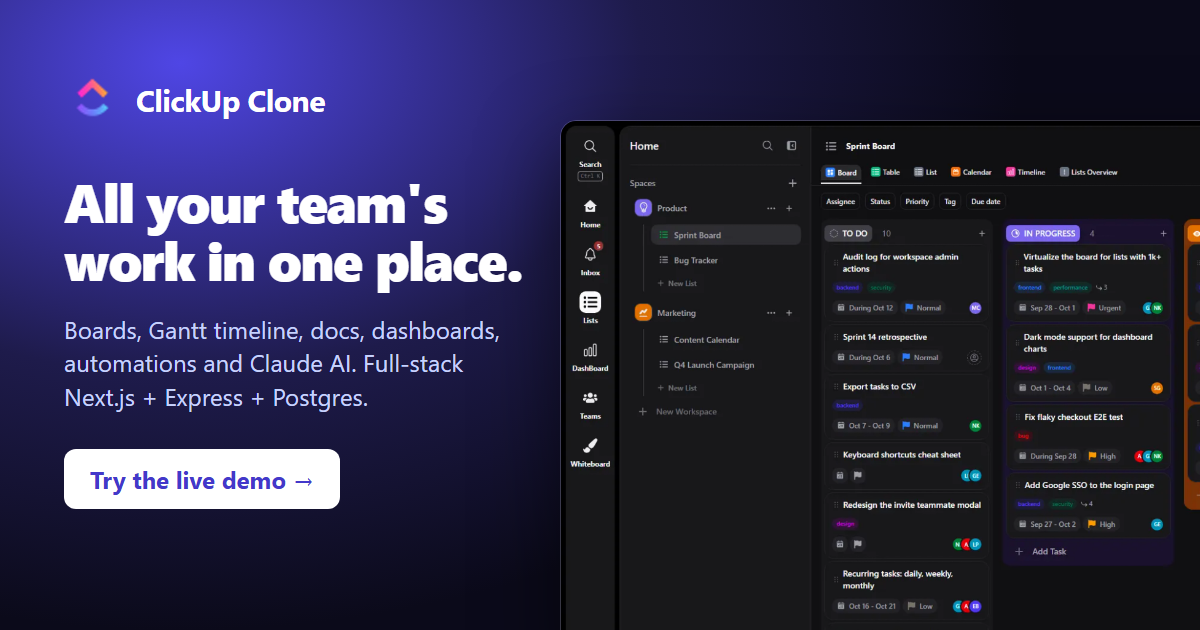
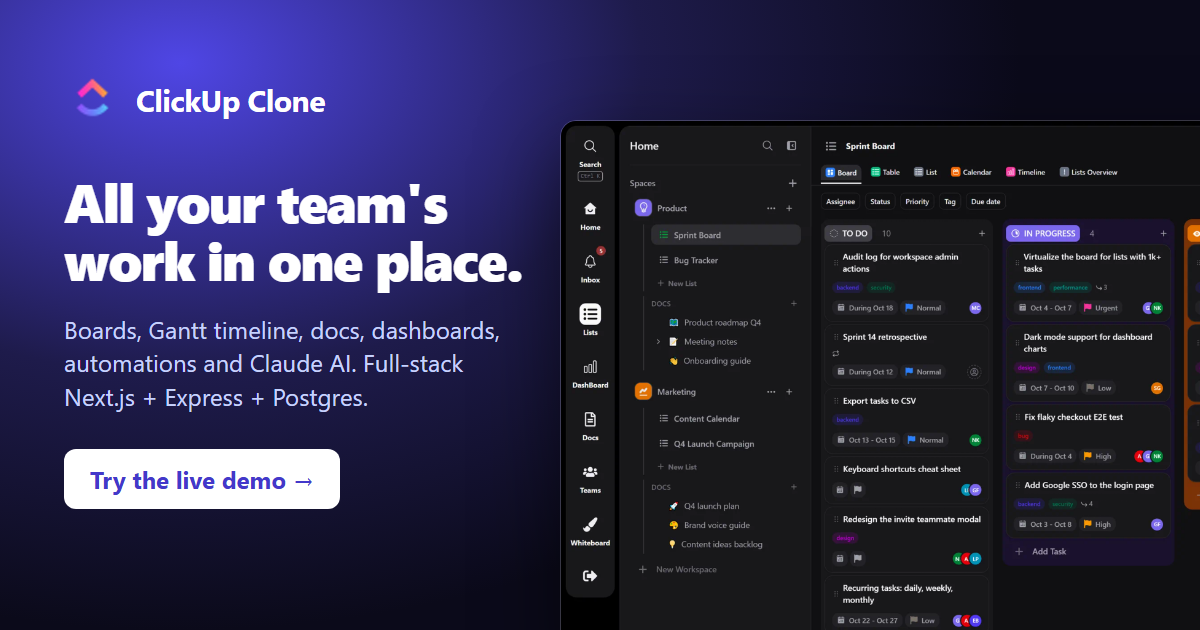
Re-capture landing and README screenshots, add demo GIF and OG card; update handoff

diff --git a/docs/HANDOFF.md b/docs/HANDOFF.md
@@ -1,6 +1,6 @@
 # Handoff: next steps for new chats
 
-Last updated: 2026-09-30 (second sprint: Steps 4–6, shadcn restyle, palette, AI shipped). **Every new chat starts by reading this file.** At the end of each chat, update the "Current state" table and tick the step you finished.
+Last updated: 2026-10-06 (fifth sprint: portfolio pass: instant guest login, mobile calendar, OG card, README GIF). **Every new chat starts by reading this file.** At the end of each chat, update the "Current state" table and tick the step you finished.
 
 ## Current state
 
@@ -30,12 +30,24 @@ Last updated: 2026-09-30 (second sprint: Steps 4–6, shadcn restyle, palette, A
 | E3 | Docs: nested pages per space, Tiptap editor with autosave, sidebar tree, Ctrl+K | ✅ shipped 2026-10-01, not eyeballed |
 | E4 | Mobile layout: sidebar drawer, snap-scroll board, wrapped My Work rows, capped modals | ✅ shipped 2026-10-01 (Playwright at 390px) |
 | E4b | Landing page refresh: hero, "Try the live demo", screenshots (`public/landing/`), feature grid | ✅ shipped 2026-10-01 |
+| F1 | Instant guest login: pre-seeded guest pool (`guestPool.service.ts`), claim = 1 SQL statement, refill after response | ✅ live 2026-10-06 (API 3.6 s → ~0.8 s; click → board ~2 s) |
+| F2 | Calendar on phones: compact month grid with dots + day list, week = day list | ✅ live 2026-10-06 (screenshot at 390px) |
+| F3 | Recurrence copies checklists (unchecked) and subtasks; repeat icon in List/Table | ✅ live 2026-10-06 |
+| F4 | Portfolio: page titles/description, Open Graph + Twitter card image, README rewrite with demo GIF and fresh screenshots | ✅ live 2026-10-06 |
 
 - **Repo:** `D:\projects\click-up\click-up-clone`. GitHub `alysalah83/Click-up-clone`. Production branch `master`.
 - **Live:**
   - Web: https://click-up-clone-two.vercel.app
   - API: https://click-up-clone-back-end.vercel.app (`/health`)
 - **Deploys:** pushing `master` deploys both apps. The API build **applies Prisma migrations to Neon automatically** (`apps/api/scripts/migrate-on-deploy.mjs`). Never ask the owner to run migrations.
+
+## Fifth sprint (2026-10-06): portfolio pass
+
+F1–F4 above, plus two bugs found while capturing: the Docs header said "List", and My Work/Docs dates followed the browser locale (now `en-US`).
+- **Guest pool:** `User.pooledAt` / `User.landingListId` (migration `20261008120000_guest_pool`). Pool size is `GUEST_POOL_SIZE` (default 3, 0 in tests). `registerGuest` claims the newest pooled guest with `FOR UPDATE SKIP LOCKED` and shifts its seeded dates (task dates by whole UTC days, other timestamps exactly) to the claim time; if the pool is empty it seeds inline (~4–7 s) as before. Refill runs through Vercel's request-context `waitUntil` (no `@vercel/functions` dependency). The pool code is raw SQL only. The schema has no index on `pooledAt` (the pool is tiny). Unclaimed pool guests older than 7 days are removed by the normal guest cleanup.
+- Three guest logins returned 500 while the deploy was rolling out; none since (sequential and 5 concurrent all 201). If 500s reappear, check the API logs on Vercel.
+- **Images:** `node apps/web/scripts/capture-screenshots.mjs [baseUrl] [--only=landing,readme,gif,og]` re-captures `public/landing/*.webp`, `assets/screenshots/*.png`, `assets/demo.gif` and `src/app/opengraph-image.png` / `twitter-image.png` from the live demo. Re-run after visible UI changes.
+- **Known gaps:** at desktop widths around 1280px with the sidebar open, the Calendar month grid scrolls sideways (Saturday is clipped), and continuation chips of multi-day tasks have no text. The "Guest xxxx" name shows in activity feeds. Not checked: link previews on LinkedIn (use https://www.linkedin.com/post-inspector/ after deploy to refresh its cache).
 
 ## Fourth sprint (2026-10-01)
 
@@ -60,11 +72,7 @@ D1–D5 built by parallel subagents, merged, then walked through on the live gue
 ## Rules for every chat
 
 - **One step per chat.** Chats run out of context; small steps finish cleanly.
-- **Process:**
-  1. `superpowers:brainstorming`: short, and ask the owner only what matters.
-  2. Spec in `docs/superpowers/specs/`.
-  3. `superpowers:writing-plans`: plan in `docs/superpowers/plans/`.
-  4. `superpowers:subagent-driven-development`: one implementer and one reviewer per task, a final review, one fix wave.
+- **Process:** minimal. No spec or plan docs, at most 2 agents at once (sharing one checkout and one install), run the checks, ship.
 - **Owner preferences:**
   - This is a portfolio flagship; recruiters click the **guest demo** alone, so **visible features first**.
   - Keep the ClickUp look.

diff --git a/README.md b/README.md
@@ -7,7 +7,7 @@ A full-stack, ClickUp-style work management app: spaces, lists and tasks viewed 
 **[Try the live demo →](https://click-up-clone-two.vercel.app)** One click, no sign-up: you get a private, pre-filled workspace with six teammates, ~80 tasks, docs, comments and notifications.
 
 <p align="center">
-  <a href="https://click-up-clone-two.vercel.app"><img src="assets/demo.gif" alt="Demo: landing page, one-click guest demo, board, task panel, timeline, calendar and dashboard" width="880" /></a>
+  <a href="https://click-up-clone-two.vercel.app"><img src="assets/demo.gif" alt="Demo: landing page, one-click guest demo, board, task panel, timeline and dashboard" width="880" /></a>
 </p>
 
 ## Screenshots
